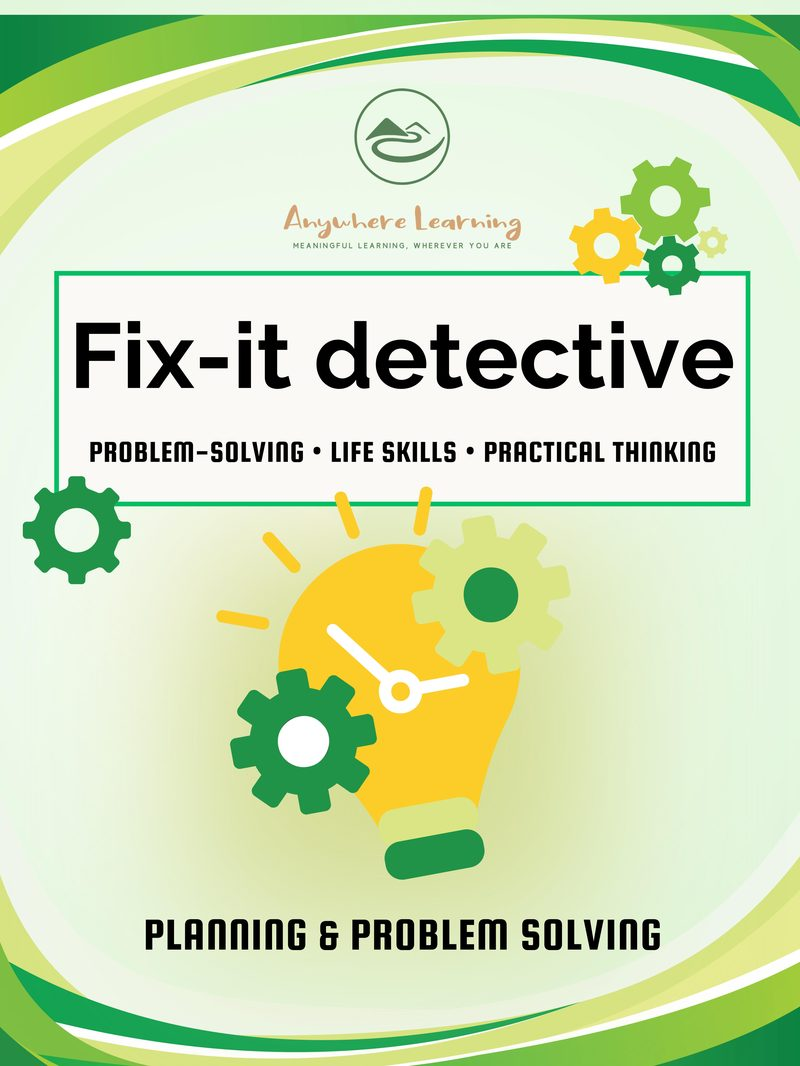
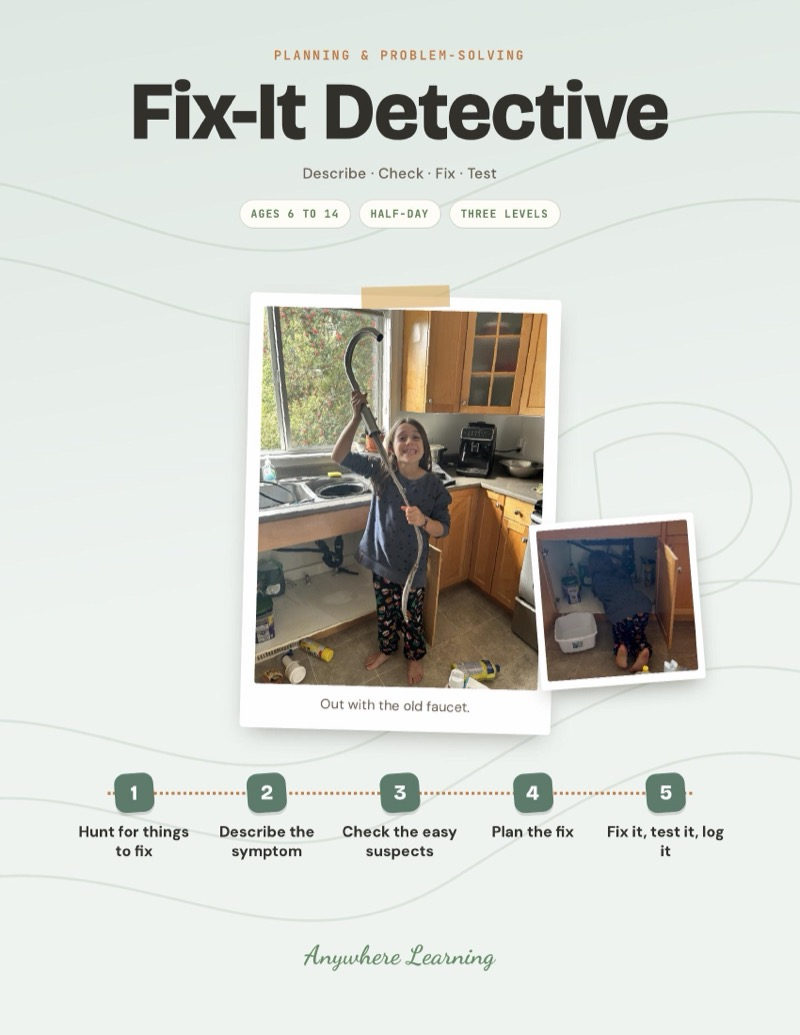
Fix-It Detective: redesigned guide, faucet story + photos, new listing, critical-thinking tag

diff --git a/scripts/seed.ts b/scripts/seed.ts
@@ -111,7 +111,7 @@ async function seed() {
     // === PLANNING & PROBLEM-SOLVING - New guides (sortOrder 130-139) ===
     { name: 'Emergency Ready Challenge', slug: 'emergency-ready', description: 'Your child builds the family emergency plan for real: a map with two ways out of every room, a meeting spot outside, a fire drill you actually run and time, a three-day stay-home kit with the water worked out, and a contact card in every pocket. Then a surprise drill with a twist tests it. Calm, practical readiness that kids feel safer for knowing.', shortDescription: 'Life skills for kids ages 8-14: build a real family emergency plan, run the fire drill and pack a three-day kit.', priceCents: 599, compareAtPriceCents: null, stripePriceId: '', blobUrl: '', imageUrl: '/products/emergency-ready.jpg', category: 'planning-problem-solving', isBundle: false, bundleProductIds: null, activityCount: null, ageRange: 'Ages 8–14', sortOrder: 130, active: true },
     { name: 'Everyday Redesign Challenge', slug: 'everyday-redesign', description: 'Your child picks something at home that bugs everyone, like lost shoes, a cluttered counter or the dinner rush, and redesigns it for real. They count the problem for a week, interview the family, keep asking why until they find the real cause, then build a fix that makes the right thing the easy thing. A second week of counting shows whether it worked.', shortDescription: 'Design thinking for kids ages 6-14: measure a real problem at home, find the cause and test a fix for a week.', priceCents: 599, compareAtPriceCents: null, stripePriceId: '', blobUrl: '', imageUrl: '/products/everyday-redesign.jpg', category: 'planning-problem-solving', isBundle: false, bundleProductIds: null, activityCount: null, ageRange: 'Ages 6–14', sortOrder: 131, active: true },
-    { name: 'Fix-It Detective', slug: 'fix-it-detective', description: 'Diagnose and fix real household problems using logic and resourcefulness.', shortDescription: 'Fix real household problems.', priceCents: 599, compareAtPriceCents: null, stripePriceId: '', blobUrl: '', imageUrl: '/products/fix-it-detective.jpg', category: 'planning-problem-solving', isBundle: false, bundleProductIds: null, activityCount: null, ageRange: 'Ages 6–14', sortOrder: 132, active: true },
+    { name: 'Fix-It Detective', slug: 'fix-it-detective', description: 'Your child becomes the household repair detective. They hunt for things that are loose, stuck or not working, describe exactly what is wrong, check the easy suspects first, then plan a fix with you and test whether it held. A clear safety card spells out what kids can open and what stays with an adult.', shortDescription: 'Problem-solving for kids ages 6-14: diagnose and fix real things around the house, safely and step by step.', priceCents: 599, compareAtPriceCents: null, stripePriceId: '', blobUrl: '', imageUrl: '/products/fix-it-detective.jpg', category: 'planning-problem-solving', isBundle: false, bundleProductIds: null, activityCount: null, ageRange: 'Ages 6–14', sortOrder: 132, active: true },
     { name: 'Neighbourhood Problem Spotter', slug: 'neighbourhood-problem-spotter', description: 'Observe your neighbourhood, spot real problems, and brainstorm solutions.', shortDescription: 'Spot and solve neighbourhood problems.', priceCents: 599, compareAtPriceCents: null, stripePriceId: '', blobUrl: '', imageUrl: '/products/neighbourhood-problem-spotter.jpg', category: 'planning-problem-solving', isBundle: false, bundleProductIds: null, activityCount: null, ageRange: 'Ages 6–14', sortOrder: 133, active: true },
     { name: 'Outdoor Survival Planner', slug: 'outdoor-survival-planner', description: 'Plan outdoor expeditions, think through scenarios, and build survival skills.', shortDescription: 'Plan outdoor survival adventures.', priceCents: 599, compareAtPriceCents: null, stripePriceId: '', blobUrl: '', imageUrl: '/products/outdoor-survival-planner.jpg', category: 'planning-problem-solving', isBundle: false, bundleProductIds: null, activityCount: null, ageRange: 'Ages 8–14', sortOrder: 134, active: true },
     { name: 'Pack Like a Pro', slug: 'pack-like-a-pro', description: 'Master strategic packing: priorities, weight, space, and logistics.', shortDescription: 'Strategic packing and planning.', priceCents: 599, compareAtPriceCents: null, stripePriceId: '', blobUrl: '', imageUrl: '/products/pack-like-a-pro.jpg', category: 'planning-problem-solving', isBundle: false, bundleProductIds: null, activityCount: null, ageRange: 'Ages 6–14', sortOrder: 135, active: true },

diff --git a/lib/product-descriptions.ts b/lib/product-descriptions.ts
@@ -2063,24 +2063,24 @@ export const productDescriptions: Record<string, ProductDescription> = {
   },
   'fix-it-detective': {
     opening:
-      'Diagnose and fix real household problems using logic, observation, and resourcefulness. Kids learn to troubleshoot, building practical skills and the confidence to figure things out. Problem-solving that\'s genuinely useful in everyday life.',
+      'Your child becomes the household repair detective. They hunt for things that are loose, stuck or not working, describe exactly what is wrong, check the easy suspects first, then plan a fix with you and test whether it held. A clear safety card spells out what kids can open and what stays with an adult.',
     whatsIncluded: [
-      'Fix-it challenge guide with real scenarios',
-      'Troubleshooting and diagnosis frameworks',
-      'Tool basics and safe handling guidance',
-      'Step-by-step repair challenges',
-      'Reflection on problem-solving strategies',
+      'A 5-step guide from spotting the problem to testing the fix',
+      'A worked example that diagnoses a flashlight step by step',
+      'Easy suspects card: power, loose, dirty, dry, worn',
+      'Safety rules card and common fixes card',
+      'Fix-it log to record each repair',
     ],
-    skillTags: ['Problem-Solving', 'Life Skills', 'Logic', 'Resourcefulness', 'Practical Skills'],
+    skillTags: ['Problem-Solving', 'Life Skills', 'Critical Thinking', 'Planning', 'Practical Skills'],
     insideTheLearning: {
       lead:
-        'Your child diagnoses and fixes things that are actually broken in your house. Diagnosis before repair, which means researching how the thing works, comparing methods, and deciding which fix is worth doing. Real tools, handled safely, with something working at the end.',
+        'Your child learns to diagnose before they repair. They describe the symptom exactly, rule out the easy causes one at a time, plan the fix with you and then test it. Real household things, handled safely, with a parent beside them.',
       skills: [
-        { skill: 'Problem-Solving', where: 'Identifying what is wrong, diagnosing why, and fixing it' },
-        { skill: 'Research', where: 'Finding out how it works and comparing repair methods before starting' },
-        { skill: 'Critical Thinking', where: 'Prioritising what to tackle and evaluating which solution is worth it' },
-        { skill: 'Planning', where: 'Sequencing the steps and gathering materials before opening anything up' },
-        { skill: 'Life Skills', where: 'Using tools properly, and the beginnings of maintaining a home' },
+        { skill: 'Problem-Solving', where: 'Working from the symptom to the cause to a fix that holds' },
+        { skill: 'Critical Thinking', where: 'Testing one suspect at a time and ruling causes out' },
+        { skill: 'Planning', where: 'Listing the tools and the steps before opening anything' },
+        { skill: 'Research', where: 'Looking up how the thing works and how others have fixed it' },
+        { skill: 'Life Skills', where: 'Using tools safely and knowing when to call an adult or a pro' },
       ],
     },
     format: 'Project Guide',

diff --git a/lib/fallback-products.ts b/lib/fallback-products.ts
@@ -1821,15 +1821,15 @@ export const fallbackProducts: FallbackProduct[] = [
     name: "Fix-It Detective",
     slug: "fix-it-detective",
     description:
-      "Diagnose and fix real household problems using logic, observation, and resourcefulness. Kids learn to troubleshoot, from a leaky tap to a stuck drawer, building practical skills and the confidence to figure things out. Problem-solving that's genuinely useful.",
+      "Your child becomes the household repair detective. They hunt for things that are loose, stuck or not working, describe exactly what is wrong, check the easy suspects first, then plan a fix with you and test whether it held. A clear safety card spells out what kids can open and what stays with an adult.",
     shortDescription:
-      "Problem-solving for kids ages 6-14: fix real household problems with logic and resourcefulness. Hands-on life skills.",
+      "Problem-solving for kids ages 6-14: diagnose and fix real things around the house, safely and step by step.",
     priceCents: 599,
     compareAtPriceCents: null,
     stripePriceId: "price_1TLo8ZAkIBECpwGmoBhiAkgI",
     blobUrl: "",
     imageUrl: "/products/fix-it-detective.jpg",
-    previewFile: "Preview Planning & Problem-Solving Fix-it detective.pdf",
+    previewFile: "Preview Planning & Problem-Solving Fix-it detective v3.pdf",
     category: "planning-problem-solving",
     isBundle: false,
     bundleProductIds: null,

diff --git a/lib/activity-blob-urls.ts b/lib/activity-blob-urls.ts
@@ -51,7 +51,7 @@ export const ACTIVITY_BLOB_URLS: Record<string, string> = {
   "family-history-detective": "https://xkj3tzlgu6ylgllk.public.blob.vercel-storage.com/Communication%20%26%20Writing%20-%20Family%20History%20Detective%20v6.pdf",
   "family-recipe-book": "https://xkj3tzlgu6ylgllk.public.blob.vercel-storage.com/Communication%20%26%20Writing%20-%20Family%20Recipe%20Book%20v6.pdf",
   "farmers-market-challenge": "https://xkj3tzlgu6ylgllk.public.blob.vercel-storage.com/Real-world%20math%20-%20Farmers%20Market%20Challenge%20v4.pdf",
-  "fix-it-detective": "https://xkj3tzlgu6ylgllk.public.blob.vercel-storage.com/Planning%20%26%20Problem-Solving%20Fix-it%20detective%20v2.pdf",
+  "fix-it-detective": "https://xkj3tzlgu6ylgllk.public.blob.vercel-storage.com/Planning%20%26%20Problem-Solving%20Fix-it%20detective%20v3.pdf",
   "frustration-tolerance-cards": "https://xkj3tzlgu6ylgllk.public.blob.vercel-storage.com/Emotional%20%26%20Social%20Skills%20-%20Frustration%20Tolerance%20Challenge%20Cards%20v2.pdf",
   "garage-sale-math": "https://xkj3tzlgu6ylgllk.public.blob.vercel-storage.com/Real-world%20math%20-%20Garage%20sale%20math%20v7.pdf",
   "garden-plot-planner": "https://xkj3tzlgu6ylgllk.public.blob.vercel-storage.com/Real-world%20math%20-%20Garden%20Plot%20Planner%20v6.pdf",

diff --git a/lib/roadmap.ts b/lib/roadmap.ts
@@ -453,6 +453,7 @@ const SUPPLEMENTAL_TERRITORY_TAGS: Record<string, string[]> = {
   'emergency-ready': ['critical-thinking'],
   'everyday-redesign': ['life-skills'],
   'travel-day': ['critical-thinking'],
+  'fix-it-detective': ['critical-thinking'],
 };
 
 /**
